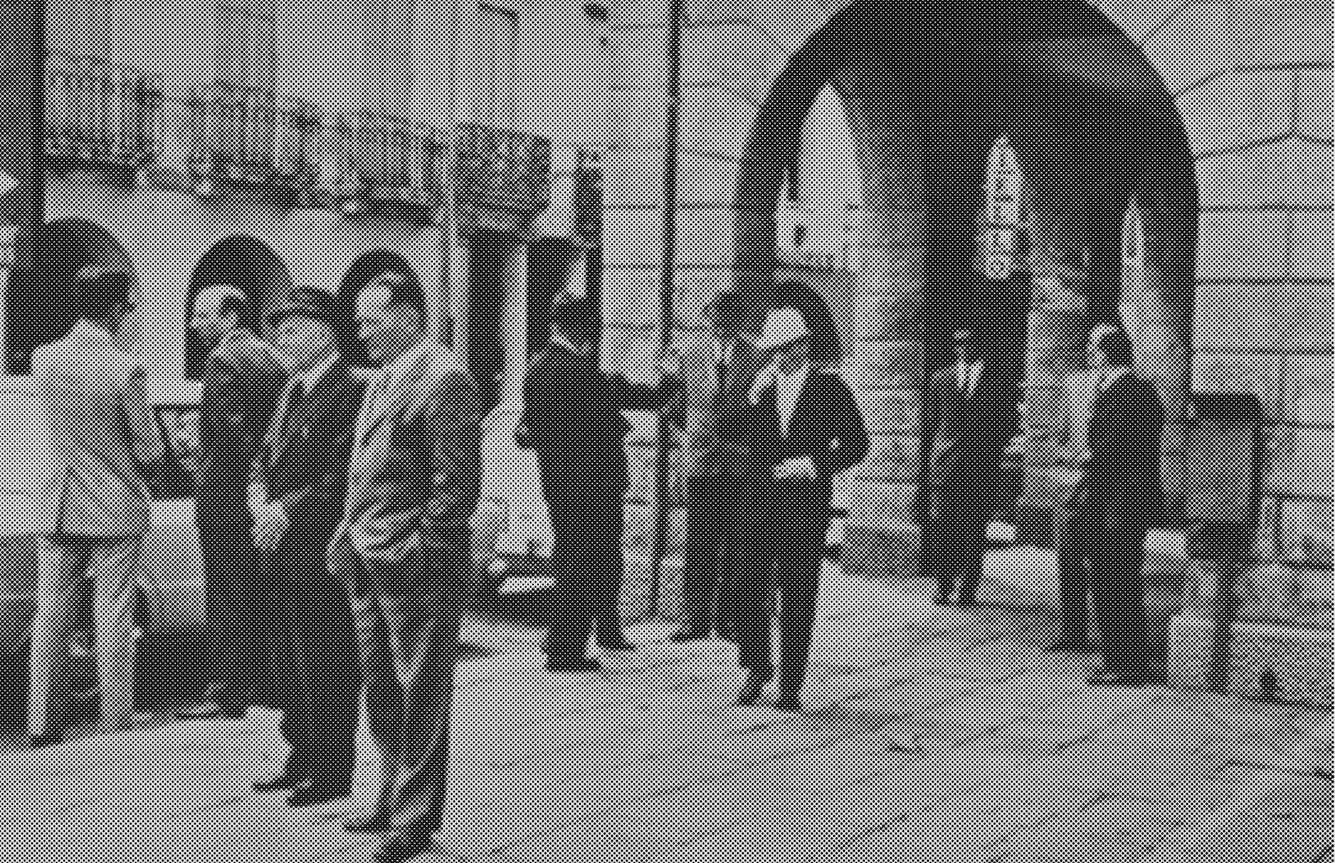
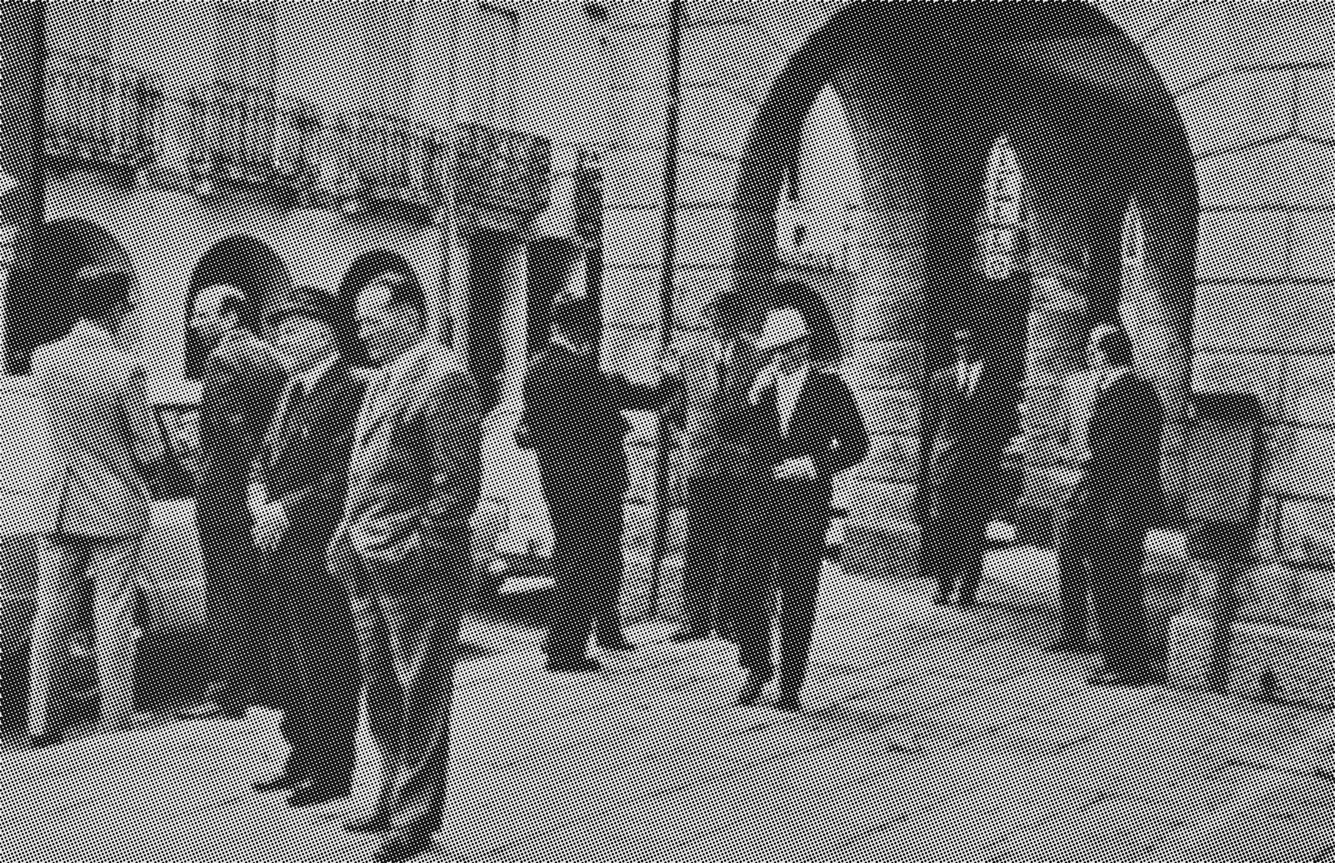
Turn the screen off the page axes
A square screen at 45 degrees is still a square screen: rotating a square
lattice by 45 lands every dot back in a straight row, up and down the page,
which is the one angle that reads as a grid rather than as a screen. The dots
also fell on the same pixels in every cell, so the tone quantised hard.

tools/halftone.py now sets the ink angle in the recipe halftoner writes, and
defaults it to 22.5 degrees. Sub-pixel dot positions cost about 30% in file
size -- 3.2MB a flyer printing, 1.4MB on the web -- and buy back the detail
the quantised screen was throwing away: the number plate in the Micalizzi
photograph is legible now.

Claude-Session: https://claude.ai/code/session_01LMJrxVQoAYPxGW9xC1heir

diff --git a/tools/halftone.py b/tools/halftone.py
@@ -23,6 +23,7 @@ https://github.com/bobbymeyer/halftoner
 
 import argparse
 import hashlib
+import json
 import subprocess
 import sys
 import tempfile
@@ -88,6 +89,20 @@ def is_screened(image):
     return max(counts) > sum(counts) * 0.10
 
 
+def turn_screen(recipe, angle):
+    """Set every ink's screen angle in a recipe halftoner has just written.
+
+    A square screen at 45 degrees is still a square screen: its dots fall into
+    straight rows up and down the page, which is the one angle that reads as a
+    grid rather than as a screen. Turning it off the page axes breaks that.
+    """
+    data = json.loads(recipe.read_text())
+    for ink in data["inks"]:
+        ink["angle"] = angle
+    recipe.write_text(json.dumps(data))
+    return data
+
+
 def halftone(source, target, size, args, seed):
     """Run halftoner over one cropped image, in a recipe folder of its own."""
     with tempfile.TemporaryDirectory() as tmp:
@@ -99,6 +114,7 @@ def halftone(source, target, size, args, seed):
              "--size", "{:g}x{:g}".format(*size), "--unit", "in",
              "--dpi", str(args.dpi), "--ink", f"k={args.ink}",
              "--ruling", str(args.ruling), "--seed", str(seed)])
+        turn_screen(recipe, args.angle)
         run(["halftoner", "render", str(recipe), "--target", "screen", "--out", str(tmp)])
         rendered = next(tmp.glob("*.png"))
         # One channel: the screen is bilevel, so grey costs nothing and saves half.
@@ -116,6 +132,10 @@ def main(argv=None):
                         help="halftoner press profile (default: %(default)s)")
     parser.add_argument("--ruling", type=int, default=45,
                         help="screen, in lines per inch (default: %(default)s)")
+    parser.add_argument("--angle", type=float, default=22.5,
+                        help="screen angle, in degrees off the page axes; "
+                             "45 lands the dots back on a straight grid "
+                             "(default: %(default)s)")
     parser.add_argument("--dpi", type=int, default=300,
                         help="device resolution (default: %(default)s)")
     parser.add_argument("--ink", default="#141414",
@@ -148,7 +168,8 @@ def main(argv=None):
             if stale != target and stale.suffix.lower() in SUFFIXES:
                 stale.unlink()
         print(f"{flyer.slug:28} {w:.2f}x{h:.2f}in  {args.ruling}lpi "
-              f"{args.dpi}dpi {args.profile}  {target.stat().st_size // 1024}kB")
+              f"@{args.angle:g}deg {args.dpi}dpi {args.profile}  "
+              f"{target.stat().st_size // 1024}kB")
     return 0
 
 

diff --git a/tests/test_halftone.py b/tests/test_halftone.py
@@ -1,5 +1,6 @@
 """Cropping, seeding and the rescreen guard. Needs Pillow; skipped without it."""
 
+import json
 import shutil
 import sys
 import tempfile
@@ -92,3 +93,28 @@ class TestSource(unittest.TestCase):
         (self.tmp / "source.txt").touch()
         (self.tmp / "sources.jpg").touch()
         self.assertIsNone(halftone.source_for(self.tmp))
+
+
+@unittest.skipIf(halftone is None, "Pillow is not installed")
+class TestScreenAngle(unittest.TestCase):
+    def setUp(self):
+        self.tmp = Path(tempfile.mkdtemp())
+        self.addCleanup(shutil.rmtree, self.tmp, True)
+        self.recipe = self.tmp / "r.json"
+        self.recipe.write_text(json.dumps(
+            {"inks": [{"name": "k", "angle": 45}, {"name": "r", "angle": 75}],
+             "screen": {"ruling_lpi": 45.0}}))
+
+    def test_every_ink_is_turned(self):
+        data = halftone.turn_screen(self.recipe, 22.5)
+        self.assertEqual([i["angle"] for i in data["inks"]], [22.5, 22.5])
+
+    def test_the_recipe_on_disk_is_rewritten(self):
+        halftone.turn_screen(self.recipe, 15)
+        written = json.loads(self.recipe.read_text())
+        self.assertEqual(written["inks"][0]["angle"], 15)
+
+    def test_the_rest_of_the_recipe_survives(self):
+        data = halftone.turn_screen(self.recipe, 22.5)
+        self.assertEqual(data["screen"]["ruling_lpi"], 45.0)
+        self.assertEqual(data["inks"][1]["name"], "r")

diff --git a/README.md b/README.md
@@ -183,7 +183,8 @@ python3 tools/make_placeholder.py content/piero-piccioni/photo.png 900x1200
 
 Screen the photos for a one-ink press. `tools/halftone.py` crops each one to
 its cell at the alignment the flyer resolved, then halftones it at the cell's
-printed size, so the dots land 1:1 on the page. Needs Pillow and
+printed size, so the dots land 1:1 on the page, turned off the page axes so
+the screen reads as a screen rather than as a grid. Needs Pillow and
 [halftoner](https://github.com/bobbymeyer/halftoner):
 
 ```sh
@@ -197,6 +198,7 @@ python3 tools/halftone.py --write
 | `--write` | replace the photo; without it nothing is written |
 | `--profile NAME` | halftoner press profile; `newsprint_nominal` |
 | `--ruling N` | screen, in lines per inch; `45` |
+| `--angle DEG` | screen angle off the page axes; `22.5`. At `45` the dots land back on a straight grid |
 | `--dpi N` | device resolution; `300` |
 | `--ink HEX` | the one ink, before the flyer's ramp; `#141414` |
 | `--force` | screen a photo that is already screened |
@@ -211,7 +213,7 @@ The committed photos are screened at 300 dpi, for the printer. For the web,
 rescreen from the sources at half that and build beside them:
 
 ```sh
-make web                    # out/web, about 1.1MB a flyer
+make web                    # out/web, about 1.4MB a flyer
 make web WEB_DPI=200
 ```
 
@@ -241,7 +243,7 @@ inlined as a data URI and the font weights in use are embedded as `@font-face`.
 Each line of type carries its measured width as `textLength`. The photo's tone
 is an SVG filter, not a CSS blend mode.
 
-About 2.6MB a flyer at the committed 300 dpi screen, 1.1MB from `make web`.
+About 3.2MB a flyer at the committed 300 dpi screen, 1.4MB from `make web`.
 
 ## tech
 
@@ -253,7 +255,7 @@ the font's own tables. The tools in `tools/` ask for more, and nothing in
 make test
 ```
 
-131 tests. The eleven covering `tools/halftone.py` want Pillow and skip
+134 tests. The fourteen covering `tools/halftone.py` want Pillow and skip
 without it; the rest are standard library only. Default branch is `main`.
 
 Type is [Rethink Sans](https://github.com/hans-thiessen/Rethink-Sans) by Hans
